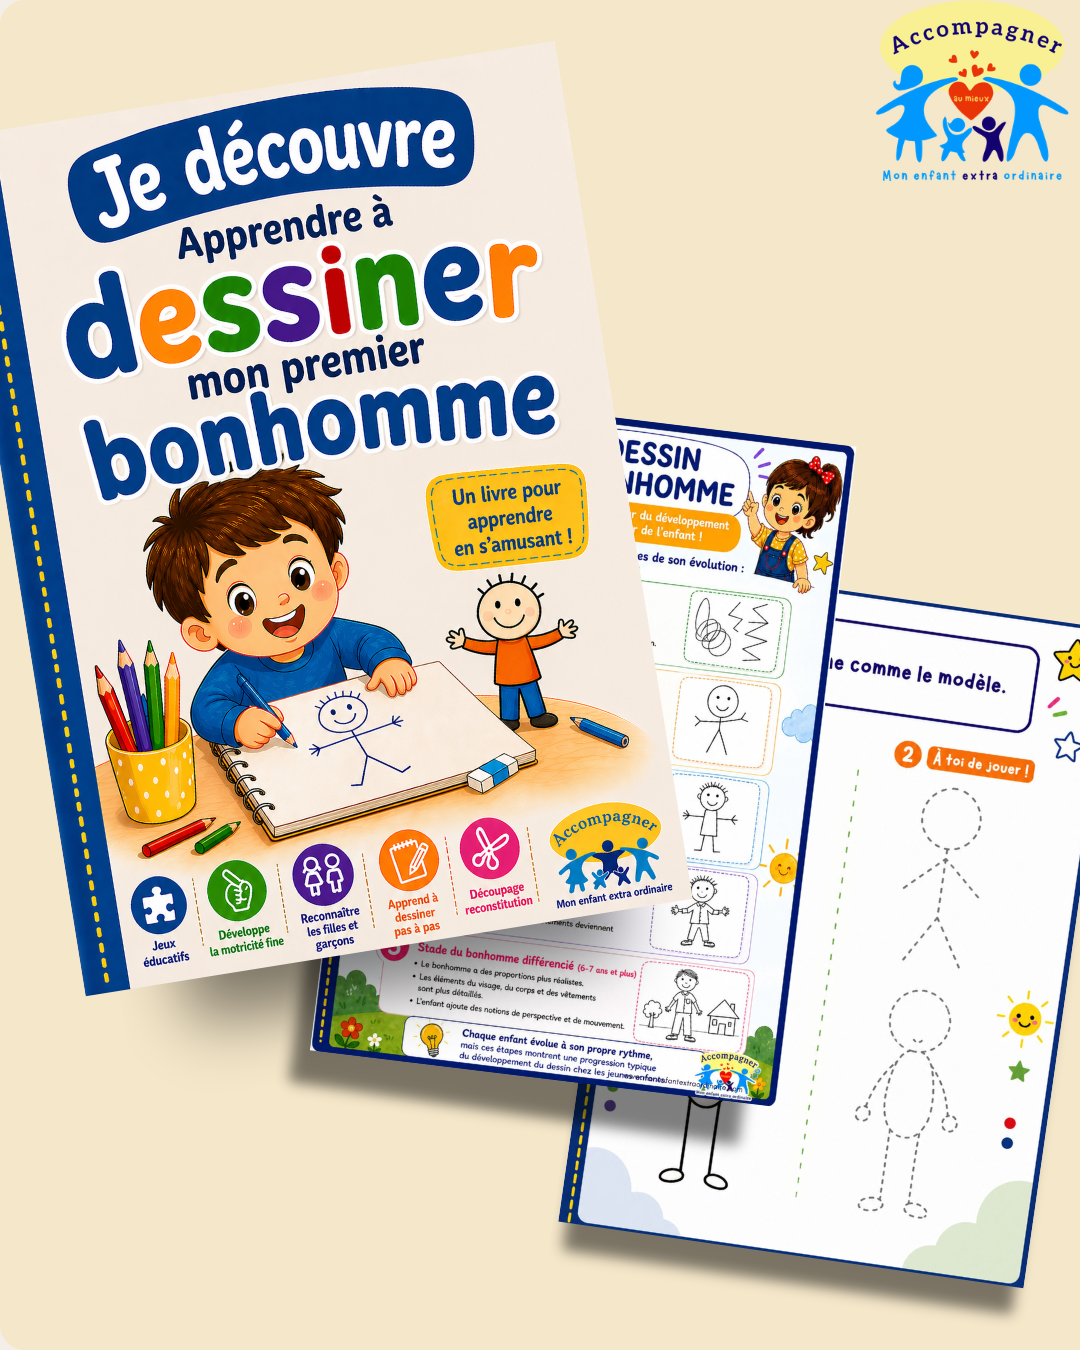
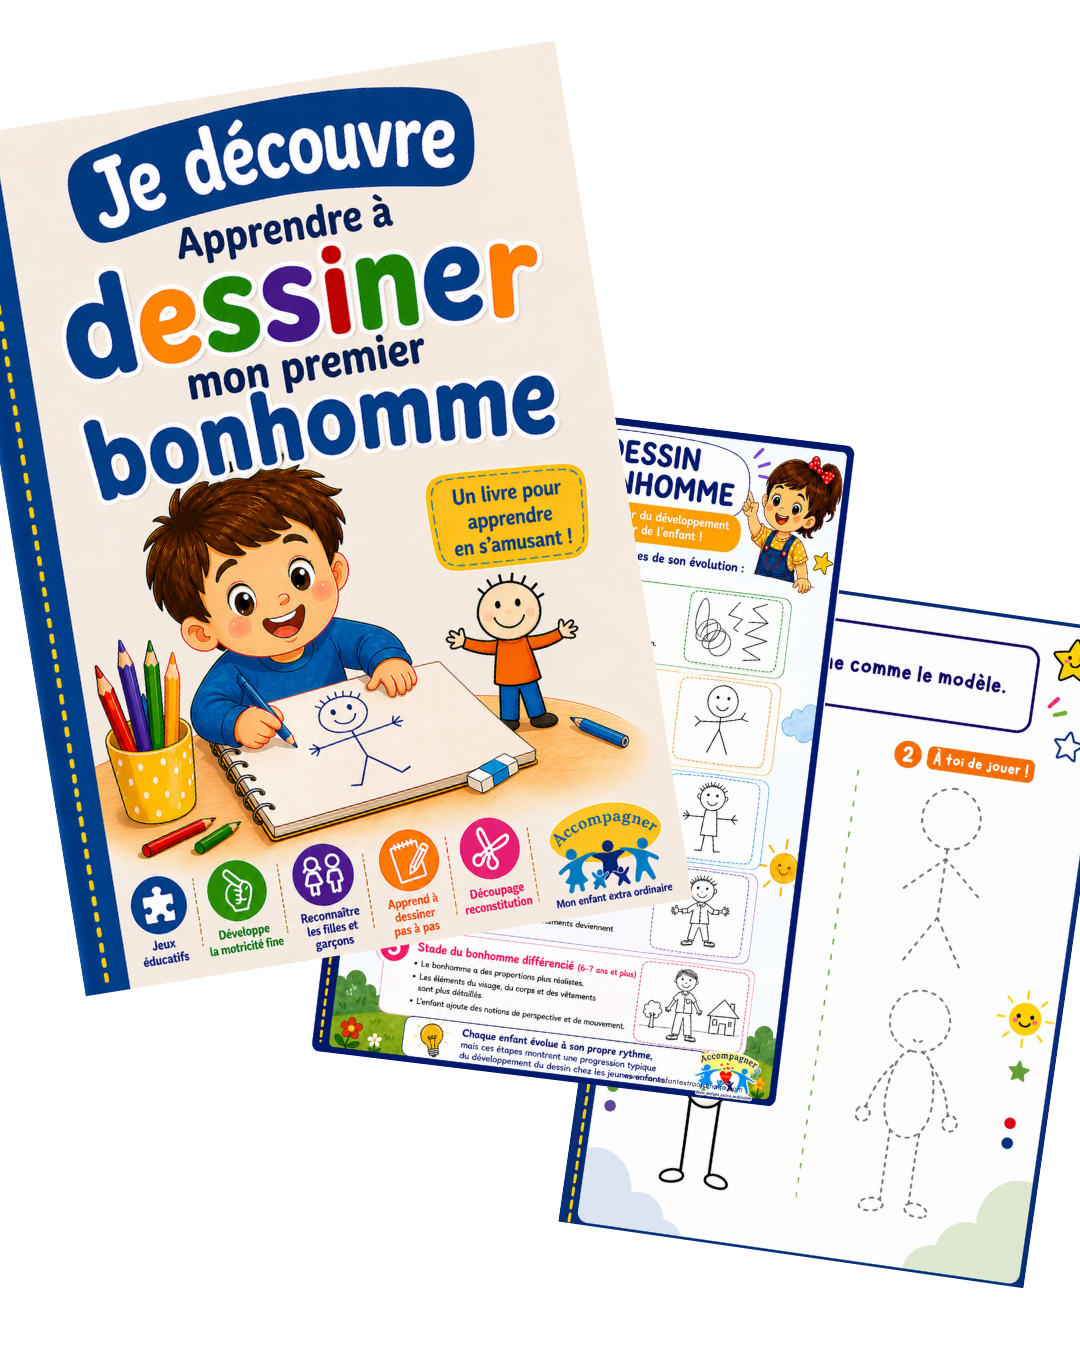
Replace emoji with real image and polish product cards
- formations/[slug]: swap 📘 emoji for cahier-parents.png, add "bibliothèque de jeux" checklist item, remove redundant callout box
- outils: switch card images to objectFit contain + drop-shadow for cleaner presentation
- assets: add cahier-parents.png and pack thumbnails (animaux, légumes); refresh existing outils miniatures; remove stale langage miniature

diff --git a/src/app/(shop)/formations/[slug]/page.tsx b/src/app/(shop)/formations/[slug]/page.tsx
@@ -1,5 +1,6 @@
 'use client';
 
+import Image from 'next/image';
 import Link from 'next/link';
 import { useParams } from 'next/navigation';
 import { useIsMobile } from '@/hooks/useIsMobile';
@@ -254,7 +255,7 @@ export default function FormationDetailPage(): React.JSX.Element {
               <p style={{ fontFamily: 'var(--font-aleo)', fontSize: 16, color: 'rgba(255,255,255,0.72)', lineHeight: 1.75, marginBottom: 28 }}>
                 Vous n&apos;allez pas juste &ldquo;apprendre&rdquo;. Vous allez <strong style={{ color: 'white' }}>faire</strong>. Grâce au Cahier des Parents, vous suivez un parcours progressif d&apos;exercices, pensé pour accompagner votre enfant des premiers signaux jusqu&apos;aux premiers mots.
               </p>
-              {['Des exercices simples', 'Adaptés à chaque enfant', 'Intégrés dans votre quotidien'].map((t) => (
+              {['Des exercices simples', 'Adaptés à chaque enfant', 'Intégrés dans votre quotidien', 'Une véritable bibliothèque de jeux'].map((t) => (
                 <div key={t} style={{ display: 'flex', gap: 12, alignItems: 'center', marginBottom: 14 }}>
                   <span style={{ width: 22, height: 22, borderRadius: '50%', background: color, color: 'white', display: 'flex', alignItems: 'center', justifyContent: 'center', fontSize: 11, fontWeight: 700, flexShrink: 0 }}>✓</span>
                   <p style={{ margin: 0, fontFamily: 'var(--font-aleo)', fontSize: 16, color: 'rgba(255,255,255,0.8)' }}>{t}</p>
@@ -263,16 +264,13 @@ export default function FormationDetailPage(): React.JSX.Element {
             </div>
             <div>
               <div style={{ background: 'rgba(255,255,255,0.05)', border: '1px solid rgba(255,255,255,0.1)', borderRadius: 24, padding: '40px 36px', textAlign: 'center' }}>
-                <div style={{ fontSize: 64, marginBottom: 20 }}>📘</div>
+                <div style={{ display: 'flex', justifyContent: 'center', marginBottom: 20 }}>
+                  <Image src="/uploads/cahier-parents.png" alt="Le Cahier des Parents" width={220} height={220} style={{ borderRadius: 12, objectFit: 'contain' }} />
+                </div>
                 <div style={{ fontFamily: 'var(--font-nunito)', fontWeight: 900, fontSize: 20, color: 'white', marginBottom: 12 }}>20 minutes par jour suffisent</div>
                 <p style={{ margin: 0, fontFamily: 'var(--font-aleo)', fontSize: 15, color: 'rgba(255,255,255,0.6)', lineHeight: 1.7 }}>
                   pour créer des opportunités d&apos;interaction et construire, pas à pas, les bases solides du langage de votre enfant.
                 </p>
-                <div style={{ marginTop: 28, padding: '16px 24px', background: `${color}22`, borderRadius: 14, border: `1px solid ${color}44` }}>
-                  <p style={{ margin: 0, fontFamily: 'var(--font-nunito)', fontWeight: 700, fontSize: 14, color, lineHeight: 1.6 }}>
-                    🎲 + une bibliothèque de jeux conçus comme de véritables exercices de développement du langage
-                  </p>
-                </div>
               </div>
             </div>
           </div>

diff --git a/src/app/(shop)/outils/page.tsx b/src/app/(shop)/outils/page.tsx
@@ -88,7 +88,7 @@ export default function OutilsPage(): React.JSX.Element {
               <div key={i} className="mef-card" style={{ overflow: 'hidden', display: 'flex', flexDirection: 'column' }}>
                 <div style={{ height: isMobile ? 200 : 260, background: p.bg, overflow: 'hidden', display: 'flex', alignItems: 'center', justifyContent: 'center' }}>
                   {p.img ? (
-                    <img src={p.img} alt={p.title} style={{ width: '100%', height: '100%', objectFit: 'cover', objectPosition: p.imgPosition ?? 'center center', display: 'block' }} />
+                    <img src={p.img} alt={p.title} style={{ width: '100%', height: '100%', objectFit: 'contain', objectPosition: p.imgPosition ?? 'center center', display: 'block', filter: 'drop-shadow(-10px 16px 16px rgba(0,0,0,0.75))' }} />
                   ) : (
                     <div style={{ height: '100%', width: '100%', display: 'flex', alignItems: 'center', justifyContent: 'center', position: 'relative' }}>
                       <div style={{ position: 'absolute', inset: 0, backgroundImage: 'repeating-linear-gradient(-45deg,transparent,transparent 12px,rgba(0,0,0,0.025) 12px,rgba(0,0,0,0.025) 13px)' }} />
